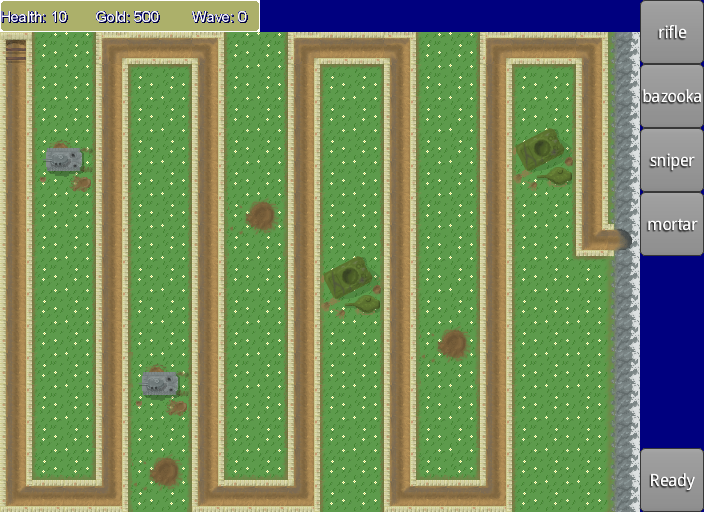
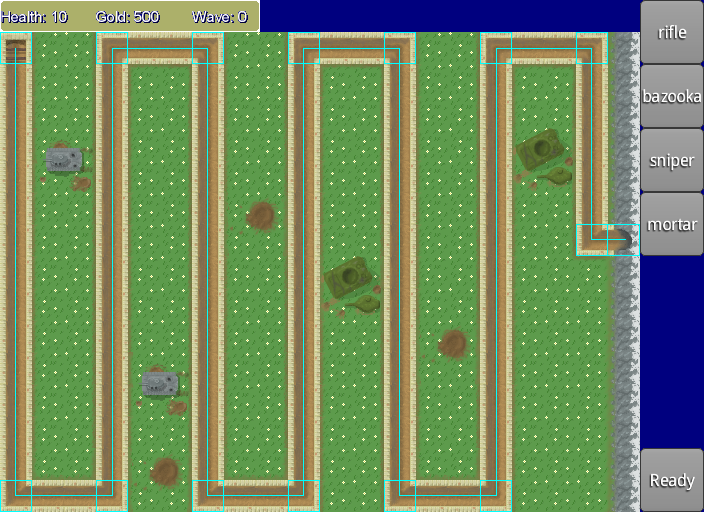
Finished tutorial.

diff --git a/project/core/src/com/mygdx/states/Tutorial.java b/project/core/src/com/mygdx/states/Tutorial.java
@@ -32,12 +32,21 @@ public class Tutorial extends GameState {
     Skin skin;
     int text = 0;
     private String[] tutorialtext = {" Welcome to the Over The Rhine Tutorial.\n Thank you for playing our game. \n To continue, click this dialogue box...\n To return to the Menu, click the Menu button.\n",
-                                     " The highlighted area shows your health, gold,\n and the current enemy wave.\n The path that is highlighted represents the path\n the enemies will take.",
+                                     " The highlighted area shows your health, gold,\n and the current enemy wave.\n The blue lines and squares represent the path\n the enemies will take.",
                                      " This is a Rifle Squad Bunker, it costs 100 gold.\n The blue circle represents the range.\n The blue square represents the bounds.\n You cannot place any tower on a path.\n",
                                      " The Rile squad has a low attack power, but high\n attack speed. It is ideal for dealing \n with the normal enemy type.\n",
                                      " This is a Bazooka Squad Bunker, it costs 150 gold.\n It has a high attack power, but a slower attack speed\n when compared to the rifle tower.\n It is ideal for dealing with the Tiger Tank.",
                                      " This is the Sniper Bunker, it costs 350 gold.\n It has a higher attack compared to the rifle and\n a faster attack speed when compared to the bazooka.\n It is ideal for dealing with the Fast enemies.",
-                                     " This is the Mortar Team Bunker, it costs 350 gold.\n It has an attack speed between the Sniper and the\n bazooka. It's damage is slightly higher than the rifle.\n It can slow the enemies greatly. Ideal for all enemies."
+                                     " This is the Mortar Team Bunker, it costs 350 gold.\n It has an attack speed between the Sniper and the\n bazooka. It's damage is slightly higher than the rifle.\n It can slow the enemies greatly. Ideal for all enemies.",
+                                     " Between every wave you will have a chance to place\n your bunkers. When you are finished press the Ready\n button in the lower left to begin a new wave.",
+                                     " Now to the enemies.\n This is Klaus, your average Wehrmacht solder.\n He has hopes and dreams.\n But he is a Nazi and must be stopped. Poor Klaus.",
+                                     " Like all enemies of his type, Klaus is slow and only\n lightly armoured. A couple of Rifle Bunker Squads\n could deal with Klaus and his friends.",
+                                     " This is Hans. Say hello Hans. \n 'hallo' -Hans\n Unlike his brother Klaus, Hans was selected for the\n Waffen SS. That means he is basically a Super Nazi.",
+                                     " Hans worked hard to get where he is, which\n means he is faster in the field. However he has the\n same armour as Klaus due to supply shortages.\n A mortar team could slow him down for your Rifles.",
+                                     " This is the mighty Tiger I Tank.\n It is commanded by 1st Lt. Bruno.\n Lt. Bruno doesn't say much to the other\n Wehrmacht soldiers, they just wouldn't understand.",
+                                     " Lt. Bruno's tank is slow, but heavily armoured.\n It will give our boys a tough time in the field\n so make sure to have some Bazooka bunkers\n ready to go.",
+                                     " Enemy waves in this game are calculated based on\n how many bunkers you have placed, what wave\n you are on, and how much gold you have stored.\n You will need to play smart to survive.",
+                                     "-_-_-_-_-_-_-_-_-_-_-_-_-End of Tutorial-_-_-_-_-_-_-_-_-_-_-_-_-_-"
                                     };
     Actor background;
     private Texture Tutorial1 = new Texture("Tutorial1.png");
@@ -46,9 +55,15 @@ public class Tutorial extends GameState {
     private Texture Tutorial4 = new Texture("Tutorial4.png");
     private Texture Tutorial5 = new Texture("Tutorial5.png");
     private Texture Tutorial6 = new Texture("Tutorial6.png");
-    private Texture[] texturearray = {Tutorial1, Tutorial2, Tutorial3, Tutorial3, Tutorial4, Tutorial5, Tutorial6};
-    /*private Texture Tutorial7 = new Texture("Tutorial7.png");
-    */
+    private Texture Tutorial7 = new Texture("Tutorial7.png");
+    private Texture Tutorial8 = new Texture("Tutorial8.png");
+    private Texture Tutorial9 = new Texture("Tutorial9.png");
+    private Texture[] texturearray = {Tutorial1, Tutorial2, Tutorial3, Tutorial3,
+                                      Tutorial4, Tutorial5, Tutorial6, Tutorial1,
+                                      Tutorial7, Tutorial7, Tutorial8, Tutorial8,
+                                      Tutorial9, Tutorial9, Tutorial1, Tutorial1};
+
+
     public Tutorial(final GameStateManager gameStateManager, NetworkManager networkManager){
         super(gameStateManager,networkManager);
         stage = new MyStage();
@@ -64,8 +79,8 @@ public class Tutorial extends GameState {
         AssetManager.loadSound(1);
 
         Return = new TextButton("Menu",skin);
-        Return.setSize(200, 60);
-        Return.setPosition(game.V_WIDTH - 205, 5);
+        Return.setSize(60, 60);
+        Return.setPosition(game.V_WIDTH - 130, 5);
         Return.addListener(new ClickListener());
         stage.addActor(Return);
 

diff --git a/project/core/src/com/mygdx/handlers/EnemyManager.java b/project/core/src/com/mygdx/handlers/EnemyManager.java
@@ -232,7 +232,7 @@ public class EnemyManager extends Actor{
         {
             timeSinceLastNorm++;
 
-            if (timeSinceLastNorm > ((MyGame.fpsretrieve/2) - multiplierSp) && waveToBeSpawnedNorm > 0) {
+            if (timeSinceLastNorm > ((MyGame.fpsretrieve * 2) - multiplierSp) && waveToBeSpawnedNorm > 0) {
                 //AddEnemy(NormEnemy, NullLayer, 3, 1, path);
                 addEnemy(Entity.Type.ENEMY_NORMAL, NormEnemyN, NormEnemyS, NormEnemyE, NormEnemyW, path);
 
